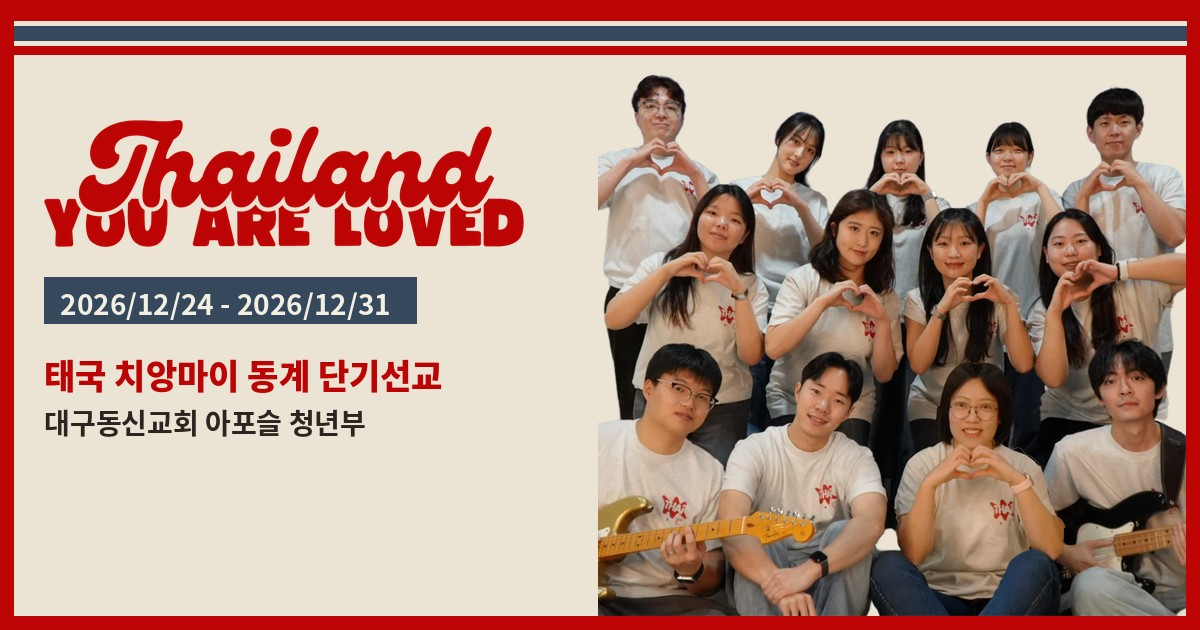
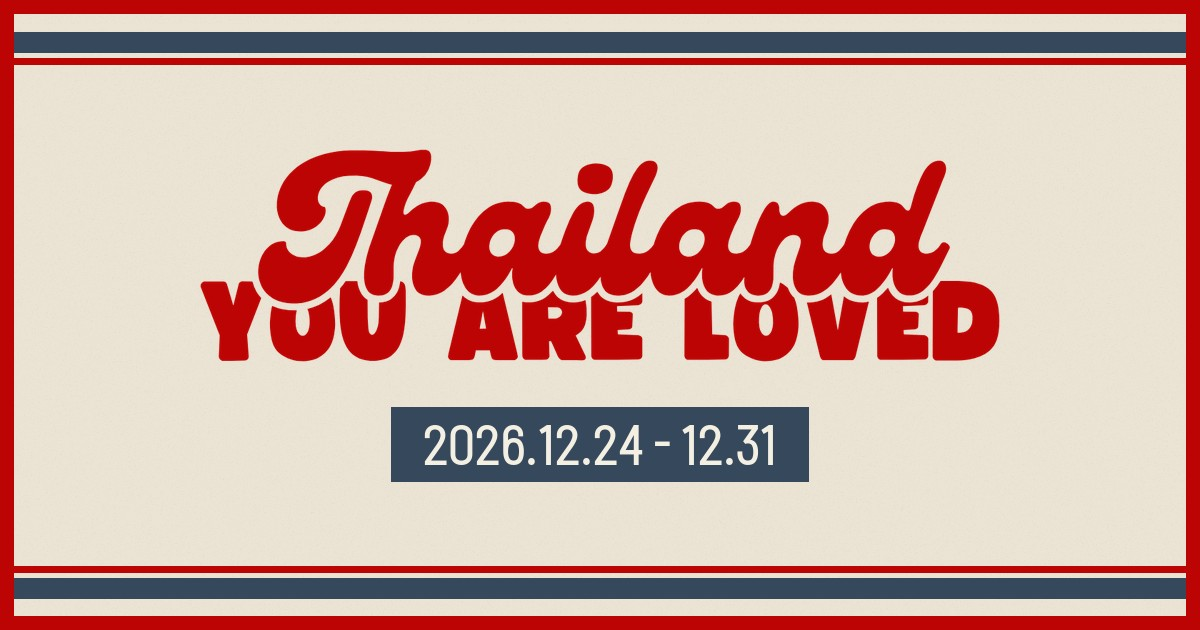
카톡 공유 카드: 사진 없는 타이포 이미지, 제목·설명 문구 정리
Claude-Session: https://claude.ai/code/session_01MHm3CTMGP2RaN7u1ruGE3D

diff --git a/index.html b/index.html
@@ -15,13 +15,16 @@
 <meta property="og:type" content="website">
 <meta property="og:locale" content="ko_KR">
 <meta property="og:site_name" content="대구동신교회 아포슬 청년부">
-<meta property="og:title" content="Thailand, YOU ARE LOVED — 태국 치앙마이 동계 단기선교">
-<meta property="og:description" content="대구동신교회 아포슬 청년부 · 2026/12/24 - 2026/12/31 기도와 재정으로 함께해 주세요.">
+<meta property="og:title" content="Thailand, YOU ARE LOVED">
+<meta property="og:description" content="태국 치앙마이 동계 단기선교에 초대합니다. 기도와 후원으로 함께해 주세요.">
 <meta property="og:url" content="https://thai-mission.web.app/">
 <meta property="og:image" content="https://thai-mission.web.app/images/og-image.jpg">
 <meta property="og:image:width" content="1200">
 <meta property="og:image:height" content="630">
 <meta name="twitter:card" content="summary_large_image">
+<meta name="twitter:title" content="Thailand, YOU ARE LOVED">
+<meta name="twitter:description" content="태국 치앙마이 동계 단기선교에 초대합니다. 기도와 후원으로 함께해 주세요.">
+<meta name="twitter:image" content="https://thai-mission.web.app/images/og-image.jpg">
 
 <link rel="preload" href="fonts/Pretendard-Regular.woff2" as="font" type="font/woff2" crossorigin>
 <link rel="preload" href="fonts/PROSlim-Bold.woff2" as="font" type="font/woff2" crossorigin>
